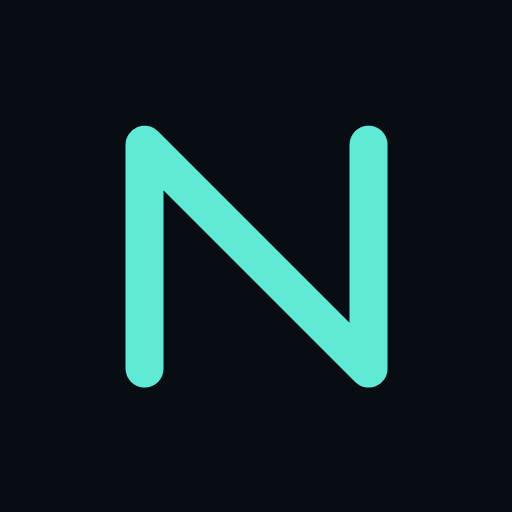
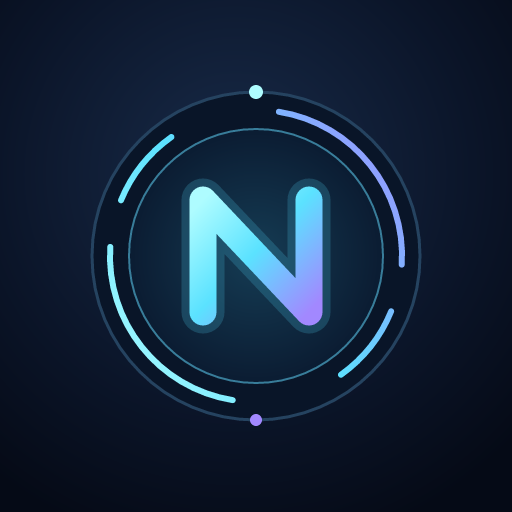
Ridisegna la nuova icona di NATHION per web e Android

diff --git a/frontend/public/sw.js b/frontend/public/sw.js
@@ -1,4 +1,4 @@
-const CACHE = "nathion-shell-v2";
+const CACHE = "nathion-shell-v3";
 self.addEventListener("install", (event) => {
   event.waitUntil(caches.open(CACHE).then((cache) => cache.addAll(["/", "/manifest.webmanifest", "/icon.svg", "/icon-192.png", "/icon-512.png"])));
 });

diff --git a/docs/ANDROID.md b/docs/ANDROID.md
@@ -2,7 +2,7 @@
 
 ## APK per il PC di Mattia
 
-Il file firmato NATHION 1.1 si trova in `android/build/NATHION.apk`. Puoi installarlo sopra la versione 1.0 per mantenere il server memorizzato. Copialo sul telefono
+Il file firmato NATHION 1.2 si trova in `android/build/NATHION.apk`. Puoi installarlo sopra la versione già installata per mantenere il server memorizzato. Copialo sul telefono
 via USB o attraverso un canale privato. Aprilo dal gestore file di Android e
 consenti al gestore di installare l'app se Android lo richiede.
 
